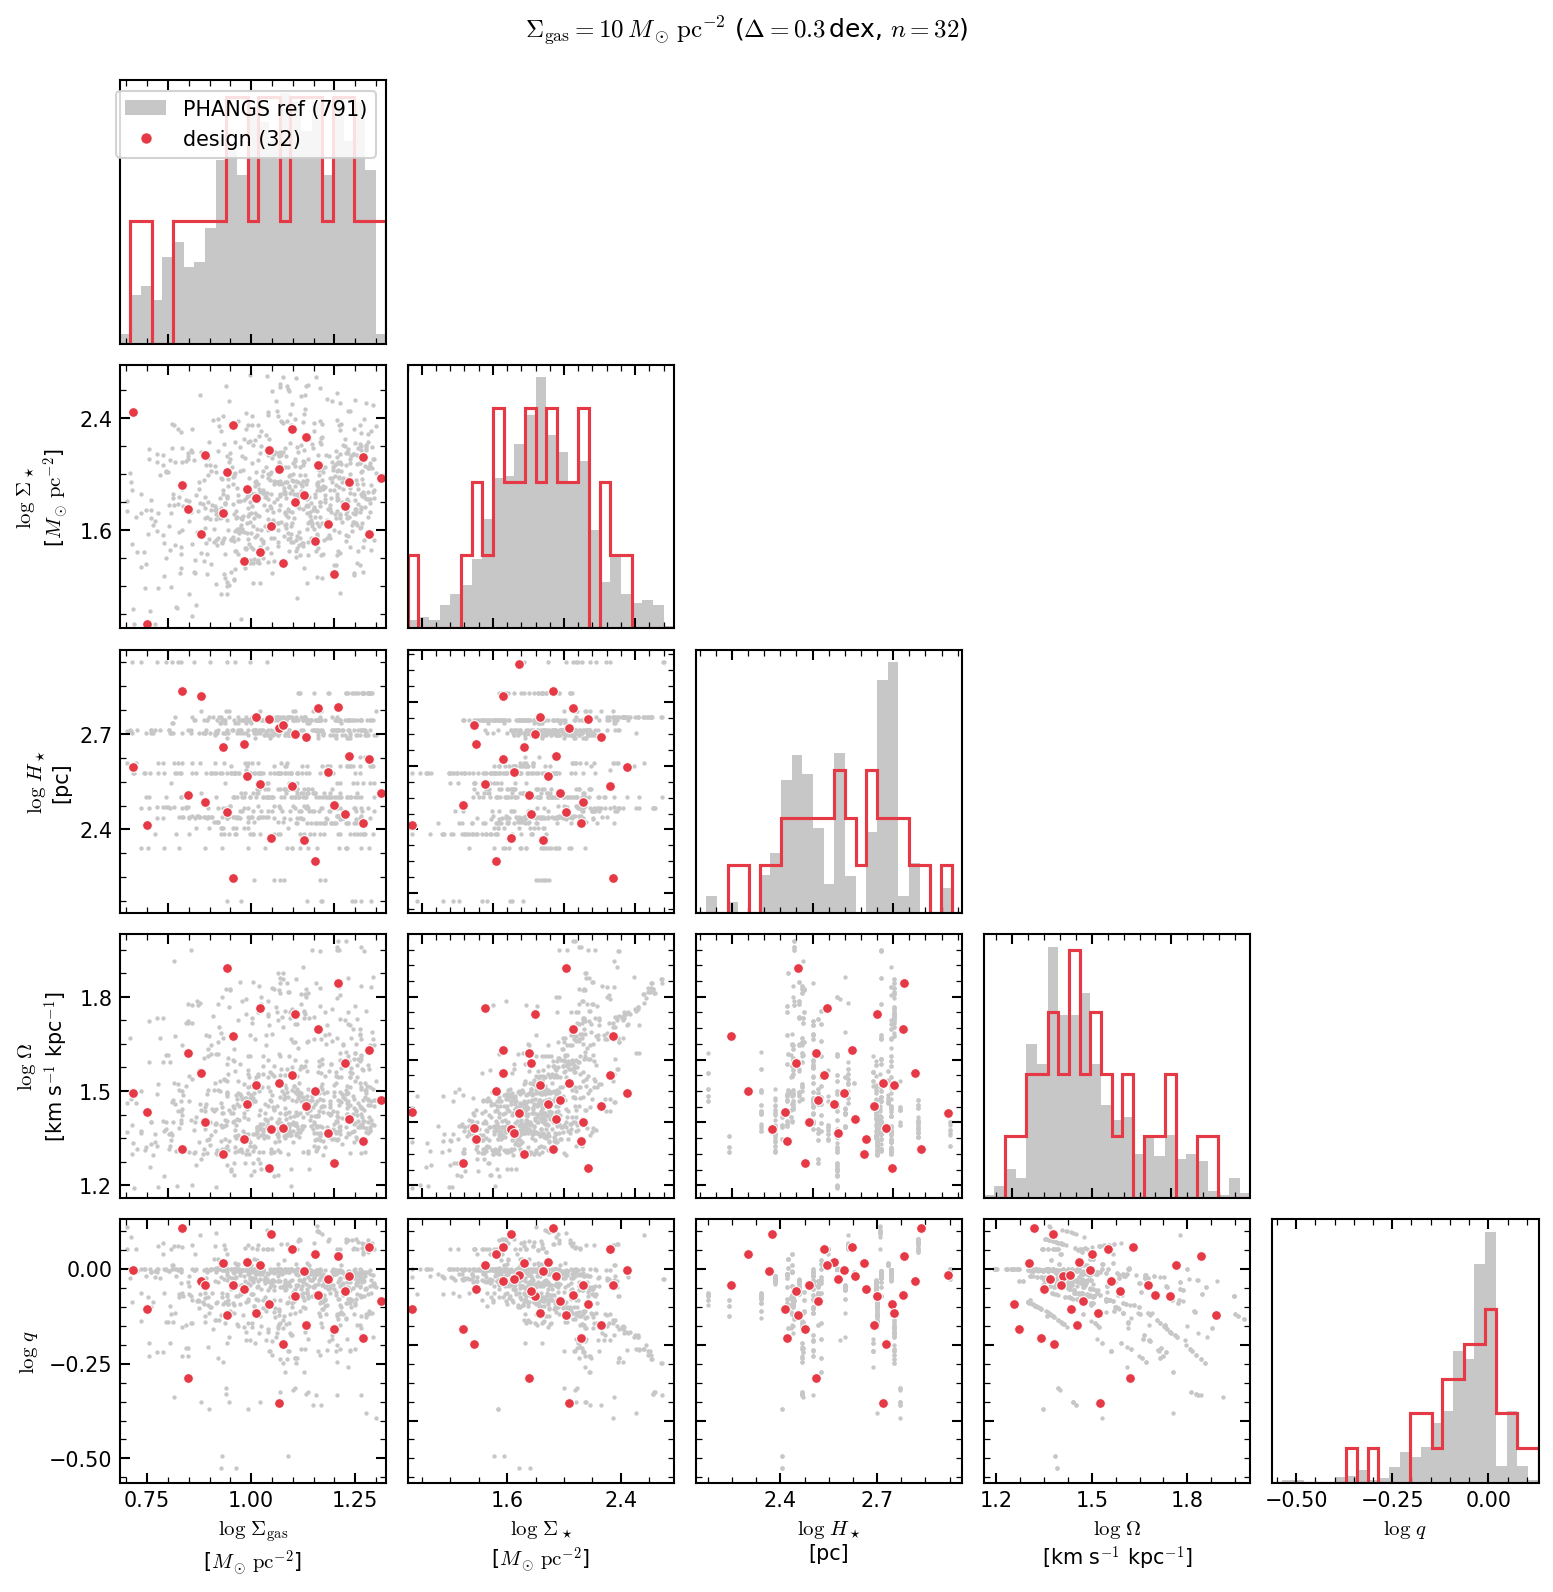
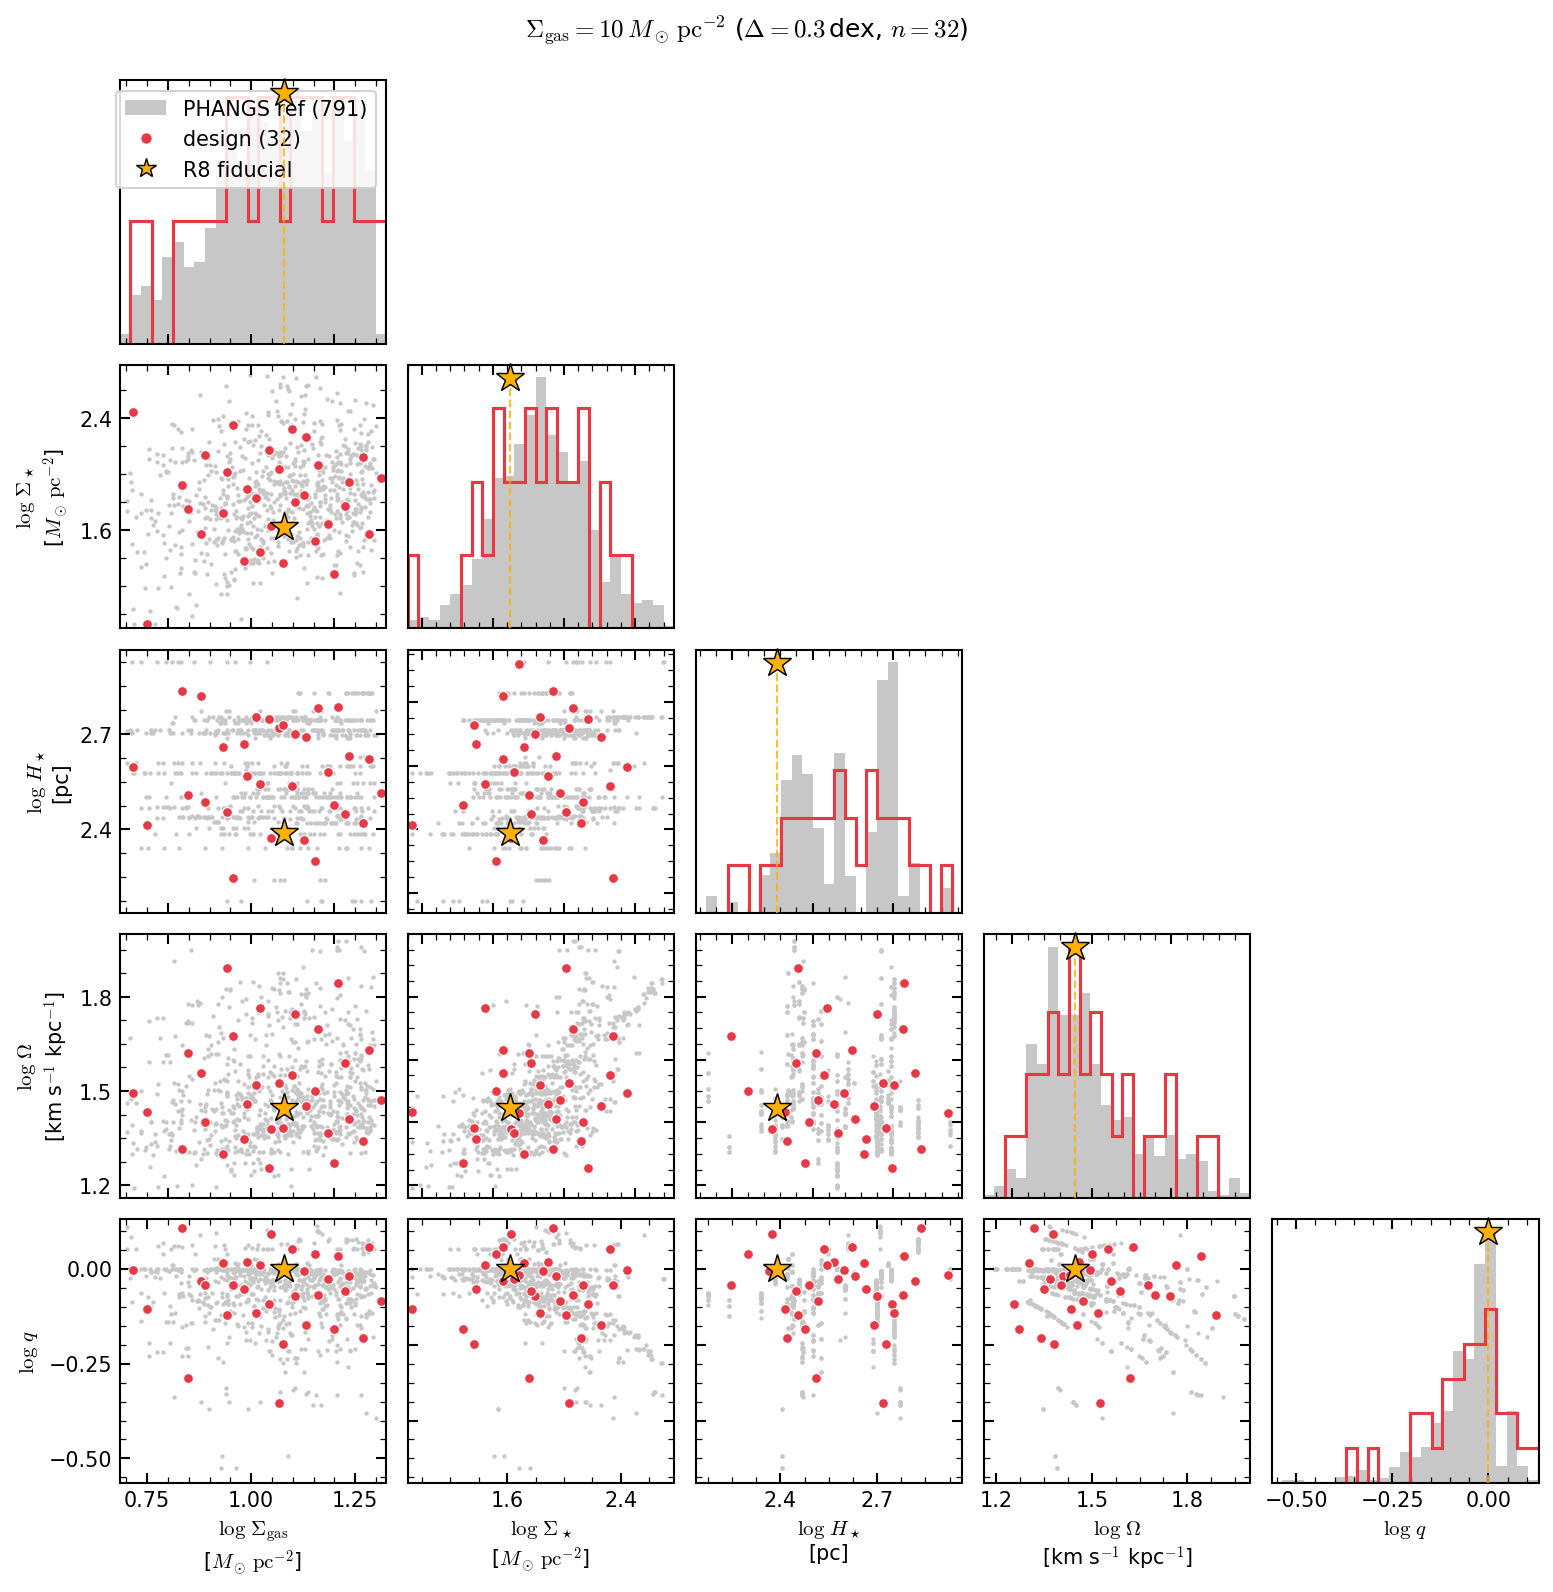
Mark R8 fiducial on design plots as a gold star
- R8_FIDUCIAL constant: (Sigma_gas=12, Sigma_star=42, H_star=245, Omega=28, q=1),
  parsed from athinput.R8_8pc. Omega converted from code units (km/s/pc)
  to km/s/kpc by *1000.
- Star + dashed vertical guide on all 3 figures (selection, corner, marginals).
- Legend entry added for R8 fiducial.

diff --git a/project/scripts/plot_design_from_csv.py b/project/scripts/plot_design_from_csv.py
@@ -54,9 +54,22 @@ FIELD_LABELS = {
     "qshear":     r"$\log\,q$",
 }
 
+# TIGRESS-NCR R8 fiducial parameters, converted from
+# Athena-TIGRESS/athinput/TIGRESS-NCR/athinput.R8_8pc into PHANGS units.
+# In TIGRESS code units (M_sun, pc, km/s), Omega has units of km/s/pc, so
+# the athinput value 0.028 corresponds to 0.028 * 1000 = 28.0 km/s/kpc.
+R8_FIDUCIAL = {
+    "Sigma_gas":  12.0,   # M_sun/pc^2
+    "Sigma_star": 42.0,   # M_sun/pc^2
+    "H_star":     245.0,  # pc
+    "Omega":      28.0,   # km/s/kpc (athinput: 0.028 km/s/pc)
+    "qshear":     1.0,
+}
+
 COLOR_ALL    = "0.78"
 COLOR_REF    = "#3a86ff"
 COLOR_DESIGN = "#e63946"
+COLOR_R8     = "#ffb000"   # amber
 
 
 def parse_args() -> argparse.Namespace:
@@ -127,6 +140,32 @@ def _save(fig, path: Path, dpi: int) -> None:
     print(f"  saved -> {path}")
 
 
+def _r8_log(field: str) -> float:
+    """Log10 of the R8 fiducial value for a given field."""
+    return float(np.log10(R8_FIDUCIAL[field]))
+
+
+def _plot_r8_star(ax, xf: str, yf: str | None,
+                  markersize: int = 14, zorder: int = 10) -> None:
+    """Plot the R8 fiducial as a star. If yf is None, plot on 1-D marginal
+    (vertical line + star at top)."""
+    x = _r8_log(xf)
+    if yf is None:
+        ax.axvline(x, color=COLOR_R8, linewidth=1.0, linestyle="--",
+                   alpha=0.8, zorder=zorder - 1)
+        # Star at the top of the axis
+        ymin, ymax = ax.get_ylim()
+        ax.plot(x, ymax * 0.95, marker="*", color=COLOR_R8,
+                markersize=markersize, markeredgecolor="black",
+                markeredgewidth=0.7, zorder=zorder,
+                clip_on=False)
+    else:
+        y = _r8_log(yf)
+        ax.plot(x, y, marker="*", color=COLOR_R8,
+                markersize=markersize, markeredgecolor="black",
+                markeredgewidth=0.7, zorder=zorder)
+
+
 def _title(sigma_gas: float, delta: float, n: int) -> str:
     return (rf"$\Sigma_{{\rm gas}}={sigma_gas:.0f}\,M_\odot\,{{\rm pc}}^{{-2}}$"
             rf" ($\Delta={delta}\,$dex, $n={n}$)")
@@ -158,6 +197,7 @@ def plot_selection(full_table, reference, design: pd.DataFrame,
                 ax.hist(log_des[xf], bins=bins_x, density=True,
                         histtype="step", color=COLOR_DESIGN, linewidth=1.5)
                 ax.set_yticks([])
+                _plot_r8_star(ax, xf, None)
             else:
                 ylo, yhi = ranges[yf]
                 ax.scatter(log_full[xf], log_full[yf],
@@ -167,6 +207,7 @@ def plot_selection(full_table, reference, design: pd.DataFrame,
                 ax.scatter(log_des[xf], log_des[yf],
                            s=18, c=COLOR_DESIGN, edgecolor="white", linewidth=0.4,
                            zorder=3)
+                _plot_r8_star(ax, xf, yf)
                 ax.set_ylim(ylo, yhi)
             ax.set_xlim(xlo, xhi)
 
@@ -179,6 +220,9 @@ def plot_selection(full_table, reference, design: pd.DataFrame,
         Line2D([0], [0], color=COLOR_DESIGN, marker="o", linestyle="none",
                markersize=6, markeredgecolor="white",
                label=f"design ({len(design):,})"),
+        Line2D([0], [0], color=COLOR_R8, marker="*", linestyle="none",
+               markersize=10, markeredgecolor="black", markeredgewidth=0.7,
+               label="R8 fiducial"),
     ]
     axes[0, 0].legend(handles=handles, fontsize="small",
                       loc="upper right", framealpha=0.85)
@@ -210,6 +254,7 @@ def plot_corner(reference, design: pd.DataFrame,
                 ax.hist(log_des[xf], bins=bins_x, density=True,
                         histtype="step", color=COLOR_DESIGN, linewidth=1.5)
                 ax.set_yticks([])
+                _plot_r8_star(ax, xf, None)
             else:
                 ylo, yhi = ranges[yf]
                 ax.scatter(log_ref[xf], log_ref[yf],
@@ -217,6 +262,7 @@ def plot_corner(reference, design: pd.DataFrame,
                 ax.scatter(log_des[xf], log_des[yf],
                            s=22, c=COLOR_DESIGN, edgecolor="white",
                            linewidth=0.5, zorder=2)
+                _plot_r8_star(ax, xf, yf)
                 ax.set_ylim(ylo, yhi)
             ax.set_xlim(xlo, xhi)
 
@@ -226,6 +272,9 @@ def plot_corner(reference, design: pd.DataFrame,
         Line2D([0], [0], color=COLOR_DESIGN, marker="o", linestyle="none",
                markersize=6, markeredgecolor="white",
                label=f"design ({len(design):,})"),
+        Line2D([0], [0], color=COLOR_R8, marker="*", linestyle="none",
+               markersize=10, markeredgecolor="black", markeredgewidth=0.7,
+               label="R8 fiducial"),
     ]
     axes[0, 0].legend(handles=handles, fontsize="small",
                       loc="upper right", framealpha=0.85)
@@ -253,9 +302,17 @@ def plot_marginals(reference, design: pd.DataFrame,
         ax.hist(log_des, bins=bins, density=True,
                 histtype="step", color=COLOR_DESIGN,
                 linewidth=1.5, label="design")
+        # R8 fiducial as dashed line + star at top
+        r8_x = _r8_log(f)
+        ax.axvline(r8_x, color=COLOR_R8, linewidth=1.0, linestyle="--",
+                   alpha=0.8, label="R8 fiducial")
         ax.set_xlabel(FIELD_LABELS[f], fontsize="medium")
         ax.set_ylabel("PDF", fontsize="medium")
         ax.set_xlim(xlo, xhi)
+        ymin, ymax = ax.get_ylim()
+        ax.plot(r8_x, ymax * 0.95, marker="*", color=COLOR_R8,
+                markersize=14, markeredgecolor="black", markeredgewidth=0.7,
+                clip_on=False, zorder=10)
 
     for ax in list(axes.flat)[len(DESIGN_FIELDS):]:
         ax.set_visible(False)
